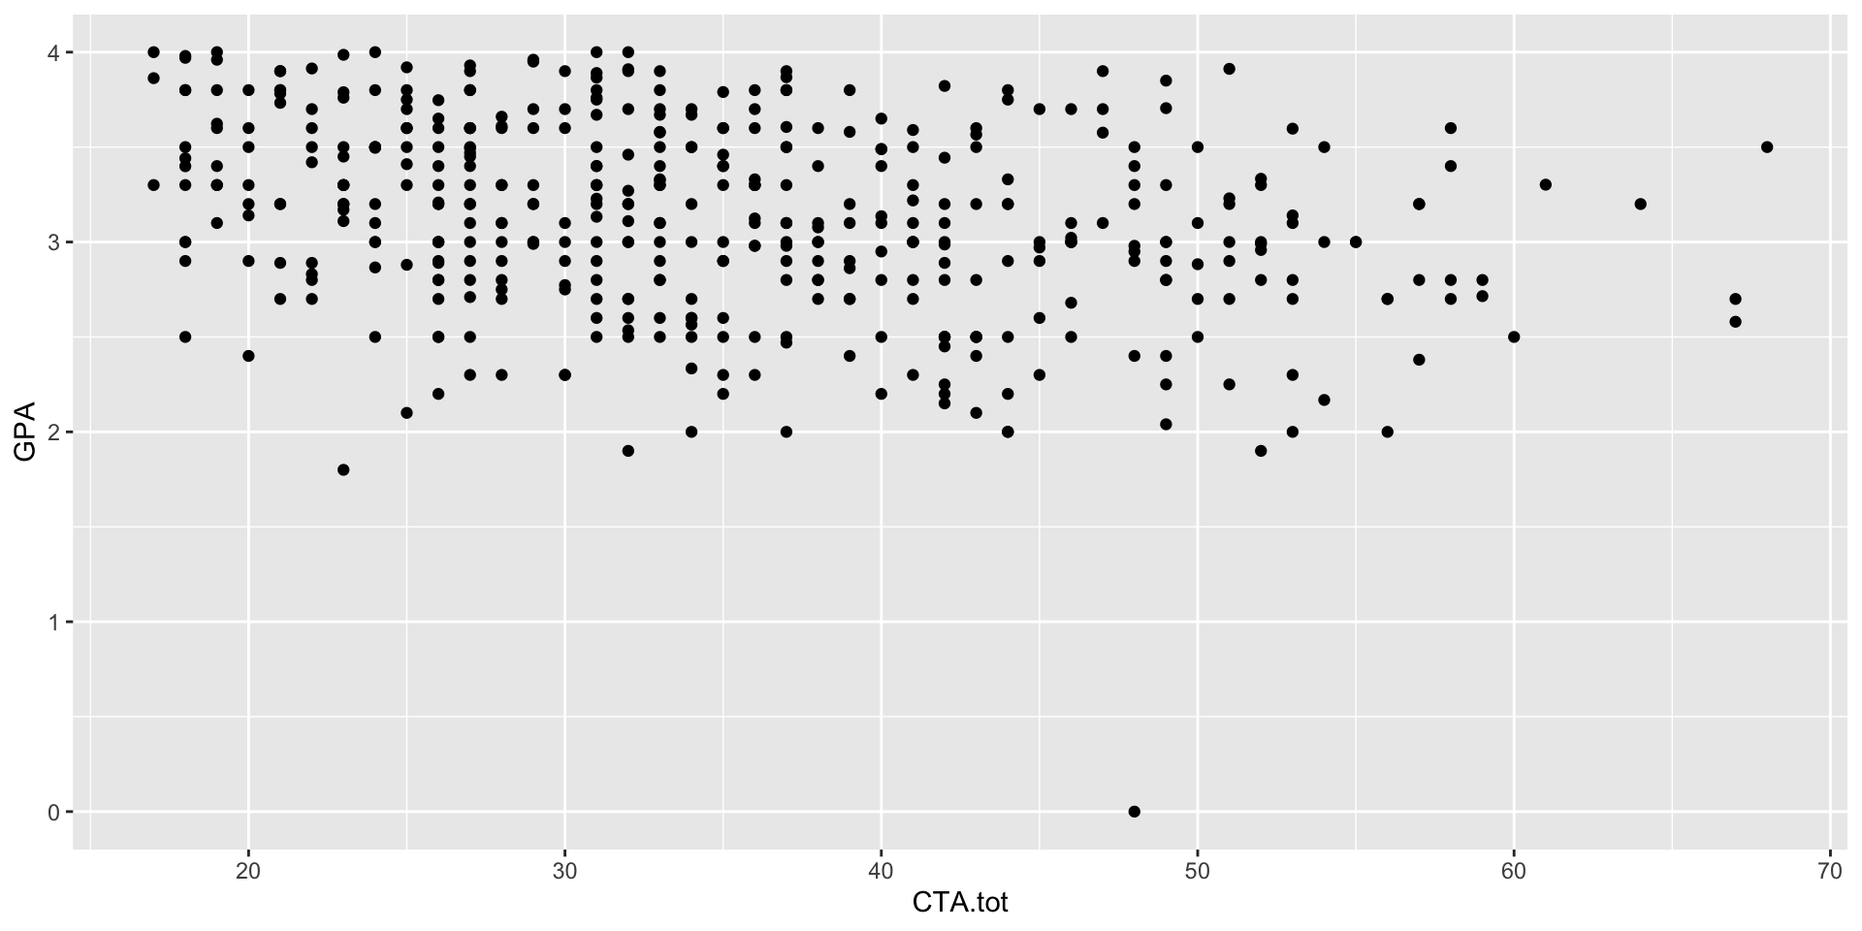
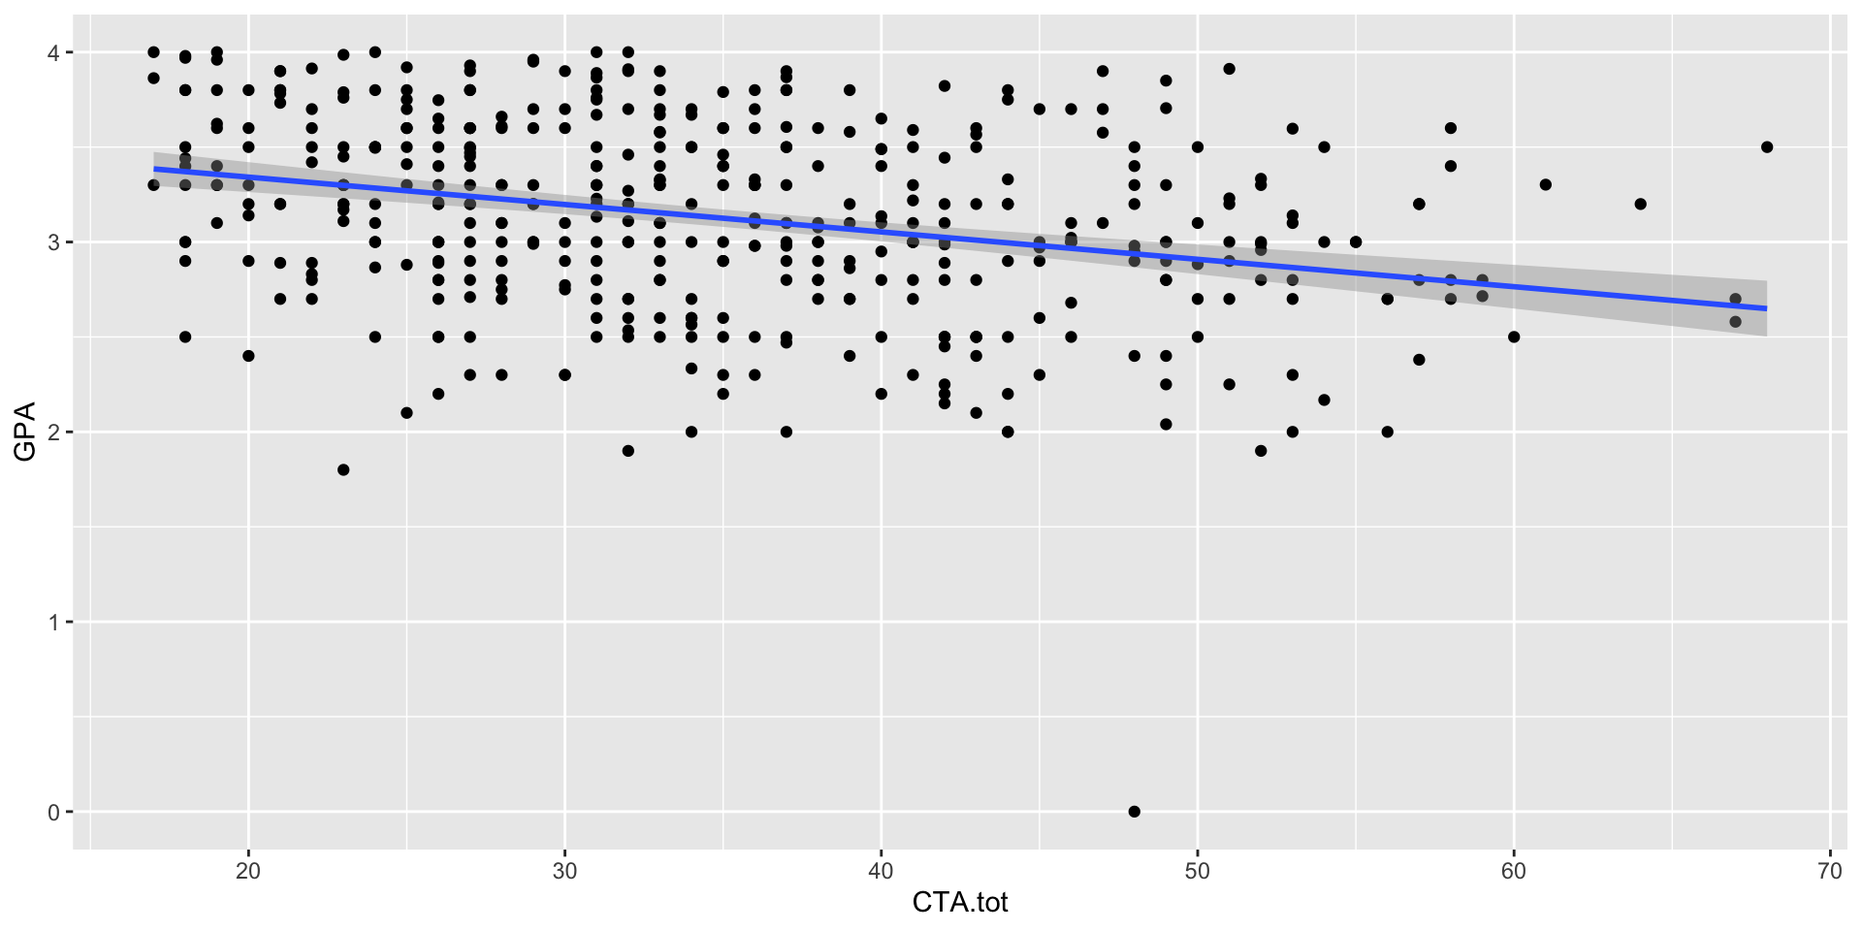
revising the content

Changed region(s): [[0.0625, 0.1562, 0.9688, 0.375]]

diff --git a/stats_modeling_week1.html b/stats_modeling_week1.html
@@ -412,9 +412,14 @@ S.Kelly
 <p>It’s free! You don’t need a subscription.</p>
 <p><img data-src="images/SAS.png" width="500" alt="SAS"> &nbsp;<img data-src="images/Stata.png" width="500" alt="Stata"></p>
 </section>
-<section id="what-is-linear-regression" class="slide level2">
-<h2>What is linear regression?</h2>
-<h3 id="insert-image-of-scatterplot-with-reg-line">insert image of scatterplot with reg line</h3>
+<section id="linear-regression-foundations" class="slide level2">
+<h2>Linear Regression Foundations</h2>
+<ol type="1">
+<li>Continuous outcome (Y) variable with a relatively normal distribution</li>
+<li>We are modeling a linear relationship between X and Y</li>
+<li>The residuals should be independent (no clustering!)</li>
+<li></li>
+</ol>
 </section>
 <section id="linear-regression-in-r" class="slide level2">
 <h2>Linear Regression in R</h2>
@@ -468,10 +473,11 @@ S.Kelly
 </section>
 <section id="linear-regression-1" class="slide level2">
 <h2>Linear Regression</h2>
-<p>Let’s look at the relationshp between cognitive academic anxiety and GPA.</p>
+<p>Let’s look at the relationship between cognitive academic anxiety and GPA.</p>
 <p>What’s wrong with this scatterplot?</p>
 <div class="cell">
-<div class="sourceCode cell-code" id="cb8"><pre class="sourceCode numberSource r number-lines code-with-copy"><code class="sourceCode r"><span id="cb8-1"><a href=""></a><span class="fu">ggplot</span>(students, <span class="fu">aes</span>(<span class="at">x =</span> CTA.tot, <span class="at">y =</span> GPA)) <span class="sc">+</span> <span class="fu">geom_point</span>()</span></code><button title="Copy to Clipboard" class="code-copy-button"><i class="bi"></i></button></pre></div>
+<div class="sourceCode cell-code" id="cb8"><pre class="sourceCode numberSource r number-lines code-with-copy"><code class="sourceCode r"><span id="cb8-1"><a href=""></a><span class="fu">ggplot</span>(students, <span class="fu">aes</span>(<span class="at">x =</span> CTA.tot, <span class="at">y =</span> GPA)) <span class="sc">+</span> <span class="fu">geom_point</span>() <span class="sc">+</span> </span>
+<span id="cb8-2"><a href=""></a>  <span class="fu">geom_smooth</span>(<span class="at">method =</span> <span class="st">"lm"</span>)</span></code><button title="Copy to Clipboard" class="code-copy-button"><i class="bi"></i></button></pre></div>
 
 </div>
 <img data-src="stats_modeling_week1_files/figure-revealjs/unnamed-chunk-4-1.png" width="960" class="r-stretch"></section>
@@ -479,7 +485,8 @@ S.Kelly
 <h2>Linear Regression</h2>
 <p>A quick change to the range of the y-axis and you can see the relationship between variables.</p>
 <div class="cell">
-<div class="sourceCode cell-code" id="cb9"><pre class="sourceCode numberSource r number-lines code-with-copy"><code class="sourceCode r"><span id="cb9-1"><a href=""></a><span class="fu">ggplot</span>(students, <span class="fu">aes</span>(<span class="at">x =</span> CTA.tot, <span class="at">y =</span> GPA)) <span class="sc">+</span> <span class="fu">geom_point</span>() <span class="sc">+</span> <span class="fu">ylim</span>(<span class="dv">0</span>, <span class="dv">4</span>)</span></code><button title="Copy to Clipboard" class="code-copy-button"><i class="bi"></i></button></pre></div>
+<div class="sourceCode cell-code" id="cb9"><pre class="sourceCode numberSource r number-lines code-with-copy"><code class="sourceCode r"><span id="cb9-1"><a href=""></a><span class="fu">ggplot</span>(students, <span class="fu">aes</span>(<span class="at">x =</span> CTA.tot, <span class="at">y =</span> GPA)) <span class="sc">+</span> <span class="fu">geom_point</span>() <span class="sc">+</span> </span>
+<span id="cb9-2"><a href=""></a>  <span class="fu">geom_smooth</span>(<span class="at">method =</span> <span class="st">"lm"</span>) <span class="sc">+</span> <span class="fu">ylim</span>(<span class="dv">0</span>, <span class="dv">4</span>)</span></code><button title="Copy to Clipboard" class="code-copy-button"><i class="bi"></i></button></pre></div>
 
 </div>
 <img data-src="stats_modeling_week1_files/figure-revealjs/unnamed-chunk-5-1.png" width="960" class="r-stretch"></section>
@@ -487,7 +494,8 @@ S.Kelly
 <h2>Linear Regression</h2>
 <p>Let’s look at the relationshp between physical anxiety and GPA.</p>
 <div class="cell">
-<div class="sourceCode cell-code" id="cb10"><pre class="sourceCode numberSource r number-lines code-with-copy"><code class="sourceCode r"><span id="cb10-1"><a href=""></a><span class="fu">ggplot</span>(students, <span class="fu">aes</span>(<span class="at">x =</span> BStotal, <span class="at">y =</span> GPA)) <span class="sc">+</span> <span class="fu">geom_point</span>() <span class="sc">+</span> <span class="fu">ylim</span>(<span class="dv">0</span>,<span class="dv">4</span>)</span></code><button title="Copy to Clipboard" class="code-copy-button"><i class="bi"></i></button></pre></div>
+<div class="sourceCode cell-code" id="cb10"><pre class="sourceCode numberSource r number-lines code-with-copy"><code class="sourceCode r"><span id="cb10-1"><a href=""></a><span class="fu">ggplot</span>(students, <span class="fu">aes</span>(<span class="at">x =</span> BStotal, <span class="at">y =</span> GPA)) <span class="sc">+</span> <span class="fu">geom_point</span>() <span class="sc">+</span> </span>
+<span id="cb10-2"><a href=""></a>  <span class="fu">geom_smooth</span>(<span class="at">method =</span> <span class="st">"lm"</span>) <span class="sc">+</span> <span class="fu">ylim</span>(<span class="dv">0</span>,<span class="dv">4</span>)</span></code><button title="Copy to Clipboard" class="code-copy-button"><i class="bi"></i></button></pre></div>
 
 </div>
 <img data-src="stats_modeling_week1_files/figure-revealjs/unnamed-chunk-6-1.png" width="960" class="r-stretch"></section>
@@ -586,8 +594,17 @@ Signif. codes:  0 '***' 0.001 '**' 0.01 '*' 0.05 '.' 0.1 ' ' 1</code></pre>
 </section>
 <section id="obtaining-confidence-intervals" class="slide level2">
 <h2>Obtaining Confidence Intervals</h2>
+<p>Reviewing the coefficients</p>
 <div class="cell">
-<div class="sourceCode cell-code" id="cb21"><pre class="sourceCode numberSource r number-lines code-with-copy"><code class="sourceCode r"><span id="cb21-1"><a href=""></a><span class="fu">confint</span>(model_gpa_anxiety)</span></code><button title="Copy to Clipboard" class="code-copy-button"><i class="bi"></i></button></pre></div>
+<div class="sourceCode cell-code" id="cb21"><pre class="sourceCode numberSource r number-lines code-with-copy"><code class="sourceCode r"><span id="cb21-1"><a href=""></a>model_gpa_anxiety<span class="sc">$</span>coefficients</span></code><button title="Copy to Clipboard" class="code-copy-button"><i class="bi"></i></button></pre></div>
+<div class="cell-output cell-output-stdout">
+<pre><code>(Intercept)     CTA.tot     BStotal 
+ 3.61892352 -0.02006778  0.01346885 </code></pre>
+</div>
+</div>
+<p>Confidence Intervals Function</p>
+<div class="cell">
+<div class="sourceCode cell-code" id="cb23"><pre class="sourceCode numberSource r number-lines code-with-copy"><code class="sourceCode r"><span id="cb23-1"><a href=""></a><span class="fu">confint</span>(model_gpa_anxiety)</span></code><button title="Copy to Clipboard" class="code-copy-button"><i class="bi"></i></button></pre></div>
 <div class="cell-output cell-output-stdout">
 <pre><code>                   2.5 %      97.5 %
 (Intercept)  3.463045744  3.77480130
@@ -596,58 +613,11 @@ BStotal      0.003489506  0.02344819</code></pre>
 </div>
 </div>
 </section>
-<section id="checking-for-model-outliers" class="slide level2">
-<h2>Checking for Model Outliers</h2>
-<div class="cell">
-<div class="sourceCode cell-code" id="cb23"><pre class="sourceCode numberSource r number-lines code-with-copy"><code class="sourceCode r"><span id="cb23-1"><a href=""></a>car<span class="sc">::</span><span class="fu">influenceIndexPlot</span>(model_gpa_anxiety)</span></code><button title="Copy to Clipboard" class="code-copy-button"><i class="bi"></i></button></pre></div>
-
-</div>
-<img data-src="stats_modeling_week1_files/figure-revealjs/unnamed-chunk-14-1.png" width="960" class="r-stretch"></section>
-<section id="checking-for-model-outliers-1" class="slide level2">
-<h2>Checking for Model Outliers</h2>
-<div class="cell">
-<div class="sourceCode cell-code" id="cb24"><pre class="sourceCode numberSource r number-lines code-with-copy"><code class="sourceCode r"><span id="cb24-1"><a href=""></a>car<span class="sc">::</span><span class="fu">outlierTest</span>(model_gpa_anxiety)</span></code><button title="Copy to Clipboard" class="code-copy-button"><i class="bi"></i></button></pre></div>
-<div class="cell-output cell-output-stdout">
-<pre><code>     rstudent unadjusted p-value Bonferroni p
-226 -6.479315         2.5546e-10   1.0959e-07</code></pre>
-</div>
-</div>
-<h3 id="who-is-226">Who is 226?</h3>
-<div class="cell">
-<div class="sourceCode cell-code" id="cb26"><pre class="sourceCode numberSource r number-lines code-with-copy"><code class="sourceCode r"><span id="cb26-1"><a href=""></a>whoisit <span class="ot">&lt;-</span> students <span class="sc">|&gt;</span> </span>
-<span id="cb26-2"><a href=""></a>  <span class="fu">select</span>(Gender<span class="sc">:</span>GPA, BStotal, CTA.tot) <span class="sc">|&gt;</span> </span>
-<span id="cb26-3"><a href=""></a>  <span class="fu">slice</span>(<span class="dv">226</span>)</span>
-<span id="cb26-4"><a href=""></a></span>
-<span id="cb26-5"><a href=""></a>whoisit</span></code><button title="Copy to Clipboard" class="code-copy-button"><i class="bi"></i></button></pre></div>
-<div class="cell-output cell-output-stdout">
-<pre><code># A tibble: 1 × 7
-  Gender  Male Minority   Age   GPA BStotal CTA.tot
-   &lt;dbl&gt; &lt;dbl&gt;    &lt;dbl&gt; &lt;dbl&gt; &lt;dbl&gt;   &lt;dbl&gt;   &lt;dbl&gt;
-1      1     0        1    18     0      25      48</code></pre>
-</div>
-</div>
-</section>
-<section id="what-can-i-pull-from-the-model" class="slide level2">
-<h2>What can I pull from the model?</h2>
-<div class="cell">
-<div class="sourceCode cell-code" id="cb28"><pre class="sourceCode numberSource r number-lines code-with-copy"><code class="sourceCode r"><span id="cb28-1"><a href=""></a><span class="fu">attributes</span>(model_gpa_anxiety)</span></code><button title="Copy to Clipboard" class="code-copy-button"><i class="bi"></i></button></pre></div>
-<div class="cell-output cell-output-stdout">
-<pre><code>$names
- [1] "coefficients"  "residuals"     "effects"       "rank"         
- [5] "fitted.values" "assign"        "qr"            "df.residual"  
- [9] "na.action"     "xlevels"       "call"          "terms"        
-[13] "model"        
-
-$class
-[1] "lm"</code></pre>
-</div>
-</div>
-</section>
 <section id="predicted-outcomes" class="slide level2">
 <h2>Predicted Outcomes</h2>
 <p>Can I grab the predicted individual GPAs from the model? Yes you can.</p>
 <div class="cell">
-<div class="sourceCode cell-code" id="cb30"><pre class="sourceCode numberSource r number-lines code-with-copy"><code class="sourceCode r"><span id="cb30-1"><a href=""></a>model_gpa_anxiety<span class="sc">$</span>fitted.values</span></code><button title="Copy to Clipboard" class="code-copy-button"><i class="bi"></i></button></pre></div>
+<div class="sourceCode cell-code" id="cb25"><pre class="sourceCode numberSource r number-lines code-with-copy"><code class="sourceCode r"><span id="cb25-1"><a href=""></a>model_gpa_anxiety<span class="sc">$</span>fitted.values</span></code><button title="Copy to Clipboard" class="code-copy-button"><i class="bi"></i></button></pre></div>
 <div class="cell-output cell-output-stdout">
 <pre><code>       1        3        4        5        8        9       10       11 
 2.964641 3.125996 3.039668 3.125454 2.852730 3.152391 3.412460 3.011917 
@@ -760,25 +730,63 @@ $class
 </div>
 </div>
 </section>
+<section id="can-i-plot-the-predicted-gpas" class="slide level2">
+<h2>Can I plot the predicted GPAs?</h2>
+<div class="cell">
+<div class="sourceCode cell-code" id="cb27"><pre class="sourceCode numberSource r number-lines code-with-copy"><code class="sourceCode r"><span id="cb27-1"><a href=""></a><span class="fu">plot</span>(model_gpa_anxiety<span class="sc">$</span>fitted.values)</span></code><button title="Copy to Clipboard" class="code-copy-button"><i class="bi"></i></button></pre></div>
+
+</div>
+<img data-src="stats_modeling_week1_files/figure-revealjs/unnamed-chunk-16-1.png" width="960" class="r-stretch"></section>
 <section id="lets-take-a-look-at-the-residuals" class="slide level2">
 <h2>Let’s take a look at the residuals</h2>
 <div class="cell">
-<div class="sourceCode cell-code" id="cb32"><pre class="sourceCode numberSource r number-lines code-with-copy"><code class="sourceCode r"><span id="cb32-1"><a href=""></a><span class="fu">plot</span>(<span class="fu">resid</span>(model_gpa_anxiety))</span></code><button title="Copy to Clipboard" class="code-copy-button"><i class="bi"></i></button></pre></div>
+<div class="sourceCode cell-code" id="cb28"><pre class="sourceCode numberSource r number-lines code-with-copy"><code class="sourceCode r"><span id="cb28-1"><a href=""></a><span class="fu">plot</span>(<span class="fu">resid</span>(model_gpa_anxiety))</span></code><button title="Copy to Clipboard" class="code-copy-button"><i class="bi"></i></button></pre></div>
 
 </div>
-<img data-src="stats_modeling_week1_files/figure-revealjs/unnamed-chunk-19-1.png" width="960" class="r-stretch"></section>
+<img data-src="stats_modeling_week1_files/figure-revealjs/unnamed-chunk-17-1.png" width="960" class="r-stretch"></section>
+<section id="checking-for-model-outliers" class="slide level2">
+<h2>Checking for Model Outliers</h2>
+<div class="cell">
+<div class="sourceCode cell-code" id="cb29"><pre class="sourceCode numberSource r number-lines code-with-copy"><code class="sourceCode r"><span id="cb29-1"><a href=""></a>car<span class="sc">::</span><span class="fu">influenceIndexPlot</span>(model_gpa_anxiety)</span></code><button title="Copy to Clipboard" class="code-copy-button"><i class="bi"></i></button></pre></div>
+
+</div>
+<img data-src="stats_modeling_week1_files/figure-revealjs/unnamed-chunk-18-1.png" width="960" class="r-stretch"></section>
+<section id="checking-for-model-outliers-1" class="slide level2">
+<h2>Checking for Model Outliers</h2>
+<div class="cell">
+<div class="sourceCode cell-code" id="cb30"><pre class="sourceCode numberSource r number-lines code-with-copy"><code class="sourceCode r"><span id="cb30-1"><a href=""></a>car<span class="sc">::</span><span class="fu">outlierTest</span>(model_gpa_anxiety)</span></code><button title="Copy to Clipboard" class="code-copy-button"><i class="bi"></i></button></pre></div>
+<div class="cell-output cell-output-stdout">
+<pre><code>     rstudent unadjusted p-value Bonferroni p
+226 -6.479315         2.5546e-10   1.0959e-07</code></pre>
+</div>
+</div>
+<h3 id="who-is-226">Who is 226?</h3>
+<div class="cell">
+<div class="sourceCode cell-code" id="cb32"><pre class="sourceCode numberSource r number-lines code-with-copy"><code class="sourceCode r"><span id="cb32-1"><a href=""></a>whoisit <span class="ot">&lt;-</span> students <span class="sc">|&gt;</span> </span>
+<span id="cb32-2"><a href=""></a>  <span class="fu">select</span>(Gender<span class="sc">:</span>GPA, BStotal, CTA.tot) <span class="sc">|&gt;</span> </span>
+<span id="cb32-3"><a href=""></a>  <span class="fu">slice</span>(<span class="dv">226</span>)</span>
+<span id="cb32-4"><a href=""></a></span>
+<span id="cb32-5"><a href=""></a>whoisit</span></code><button title="Copy to Clipboard" class="code-copy-button"><i class="bi"></i></button></pre></div>
+<div class="cell-output cell-output-stdout">
+<pre><code># A tibble: 1 × 7
+  Gender  Male Minority   Age   GPA BStotal CTA.tot
+   &lt;dbl&gt; &lt;dbl&gt;    &lt;dbl&gt; &lt;dbl&gt; &lt;dbl&gt;   &lt;dbl&gt;   &lt;dbl&gt;
+1      1     0        1    18     0      25      48</code></pre>
+</div>
+</div>
+</section>
 <section id="what-if-we-had-removed-the-outlier" class="slide level2">
 <h2>What if we had removed the outlier?</h2>
 <p>Let’s only retain people who have a GPA between 1 and 4. By default, the NAs also drop.</p>
 <div class="cell">
-<div class="sourceCode cell-code" id="cb33"><pre class="sourceCode numberSource r number-lines code-with-copy"><code class="sourceCode r"><span id="cb33-1"><a href=""></a>students_no_outlier <span class="ot">&lt;-</span> students <span class="sc">|&gt;</span>  </span>
-<span id="cb33-2"><a href=""></a>  <span class="fu">filter</span>(GPA <span class="sc">&gt;</span> <span class="dv">1</span> <span class="sc">&amp;</span> GPA <span class="sc">&lt;</span> <span class="dv">4</span>) </span>
-<span id="cb33-3"><a href=""></a></span>
-<span id="cb33-4"><a href=""></a><span class="fu">dim</span>(students)</span></code><button title="Copy to Clipboard" class="code-copy-button"><i class="bi"></i></button></pre></div>
+<div class="sourceCode cell-code" id="cb34"><pre class="sourceCode numberSource r number-lines code-with-copy"><code class="sourceCode r"><span id="cb34-1"><a href=""></a>students_no_outlier <span class="ot">&lt;-</span> students <span class="sc">|&gt;</span>  </span>
+<span id="cb34-2"><a href=""></a>  <span class="fu">filter</span>(GPA <span class="sc">&gt;</span> <span class="dv">1</span> <span class="sc">&amp;</span> GPA <span class="sc">&lt;</span> <span class="dv">4</span>) </span>
+<span id="cb34-3"><a href=""></a></span>
+<span id="cb34-4"><a href=""></a><span class="fu">dim</span>(students)</span></code><button title="Copy to Clipboard" class="code-copy-button"><i class="bi"></i></button></pre></div>
 <div class="cell-output cell-output-stdout">
 <pre><code>[1] 486  30</code></pre>
 </div>
-<div class="sourceCode cell-code" id="cb35"><pre class="sourceCode numberSource r number-lines code-with-copy"><code class="sourceCode r"><span id="cb35-1"><a href=""></a><span class="fu">dim</span>(students_no_outlier)</span></code><button title="Copy to Clipboard" class="code-copy-button"><i class="bi"></i></button></pre></div>
+<div class="sourceCode cell-code" id="cb36"><pre class="sourceCode numberSource r number-lines code-with-copy"><code class="sourceCode r"><span id="cb36-1"><a href=""></a><span class="fu">dim</span>(students_no_outlier)</span></code><button title="Copy to Clipboard" class="code-copy-button"><i class="bi"></i></button></pre></div>
 <div class="cell-output cell-output-stdout">
 <pre><code>[1] 460  30</code></pre>
 </div>
@@ -787,10 +795,10 @@ $class
 <section id="model-again" class="slide level2">
 <h2>Model Again</h2>
 <div class="cell">
-<div class="sourceCode cell-code" id="cb37"><pre class="sourceCode numberSource r number-lines code-with-copy"><code class="sourceCode r"><span id="cb37-1"><a href=""></a>model_gpa_anxiety_no_outlier <span class="ot">&lt;-</span> <span class="fu">lm</span>(GPA <span class="sc">~</span> CTA.tot <span class="sc">+</span> BStotal, </span>
-<span id="cb37-2"><a href=""></a>                                   <span class="at">data =</span> students_no_outlier)</span>
-<span id="cb37-3"><a href=""></a></span>
-<span id="cb37-4"><a href=""></a><span class="fu">summary</span>(model_gpa_anxiety_no_outlier)</span></code><button title="Copy to Clipboard" class="code-copy-button"><i class="bi"></i></button></pre></div>
+<div class="sourceCode cell-code" id="cb38"><pre class="sourceCode numberSource r number-lines code-with-copy"><code class="sourceCode r"><span id="cb38-1"><a href=""></a>model_gpa_anxiety_no_outlier <span class="ot">&lt;-</span> <span class="fu">lm</span>(GPA <span class="sc">~</span> CTA.tot <span class="sc">+</span> BStotal, </span>
+<span id="cb38-2"><a href=""></a>                                   <span class="at">data =</span> students_no_outlier)</span>
+<span id="cb38-3"><a href=""></a></span>
+<span id="cb38-4"><a href=""></a><span class="fu">summary</span>(model_gpa_anxiety_no_outlier)</span></code><button title="Copy to Clipboard" class="code-copy-button"><i class="bi"></i></button></pre></div>
 <div class="cell-output cell-output-stdout">
 <pre><code>
 Call:
@@ -818,7 +826,7 @@ F-statistic: 23.65 on 2 and 420 DF,  p-value: 1.856e-10</code></pre>
 <section id="outliers-now" class="slide level2">
 <h2>Outliers Now?</h2>
 <div class="cell">
-<div class="sourceCode cell-code" id="cb39"><pre class="sourceCode numberSource r number-lines code-with-copy"><code class="sourceCode r"><span id="cb39-1"><a href=""></a>car<span class="sc">::</span><span class="fu">outlierTest</span>(model_gpa_anxiety_no_outlier)</span></code><button title="Copy to Clipboard" class="code-copy-button"><i class="bi"></i></button></pre></div>
+<div class="sourceCode cell-code" id="cb40"><pre class="sourceCode numberSource r number-lines code-with-copy"><code class="sourceCode r"><span id="cb40-1"><a href=""></a>car<span class="sc">::</span><span class="fu">outlierTest</span>(model_gpa_anxiety_no_outlier)</span></code><button title="Copy to Clipboard" class="code-copy-button"><i class="bi"></i></button></pre></div>
 <div class="cell-output cell-output-stdout">
 <pre><code>No Studentized residuals with Bonferroni p &lt; 0.05
 Largest |rstudent|:
@@ -830,16 +838,21 @@ Largest |rstudent|:
 <section id="plot" class="slide level2">
 <h2>Plot</h2>
 <div class="cell">
-<div class="sourceCode cell-code" id="cb41"><pre class="sourceCode numberSource r number-lines code-with-copy"><code class="sourceCode r"><span id="cb41-1"><a href=""></a>car<span class="sc">::</span><span class="fu">influenceIndexPlot</span>(model_gpa_anxiety_no_outlier)</span></code><button title="Copy to Clipboard" class="code-copy-button"><i class="bi"></i></button></pre></div>
+<div class="sourceCode cell-code" id="cb42"><pre class="sourceCode numberSource r number-lines code-with-copy"><code class="sourceCode r"><span id="cb42-1"><a href=""></a>car<span class="sc">::</span><span class="fu">influenceIndexPlot</span>(model_gpa_anxiety_no_outlier)</span></code><button title="Copy to Clipboard" class="code-copy-button"><i class="bi"></i></button></pre></div>
 
 </div>
-<img data-src="stats_modeling_week1_files/figure-revealjs/unnamed-chunk-23-1.png" width="960" class="r-stretch"></section>
-<section id="what-about-categorical-predictors" class="slide level2">
-<h2>What about categorical predictors?</h2>
+<img data-src="stats_modeling_week1_files/figure-revealjs/unnamed-chunk-24-1.png" width="960" class="r-stretch"></section>
+<section id="next-week-more-regression-modeling" class="slide level2">
+<h2>Next Week: More Regression Modeling</h2>
+<h3 id="what-if-you-want-to-model-an-interaction-you-can">- What if you want to model an interaction? <em>You can</em></h3>
+<h3 id="what-if-you-have-categorical-predictors-factors">- What if you have categorical predictors? <em>Factors</em></h3>
+<h3 id="what-if-you-need-to-model-a-binary-outcome-logistic-regression">- What if you need to model a binary outcome? <em>Logistic Regression</em></h3>
 </section>
-<section id="what-if-i-want-to-scale-z-score-my-predictors" class="slide level2">
-<h2>What if I want to scale / z-score my predictors?</h2>
-<div class="quarto-auto-generated-content">
+<section id="additional-questions" class="slide level2">
+<h2>Additional Questions?</h2>
+<p>Make an Appointment with the <a href="https://libraries.olemiss.edu/services/methods-and-analysis-lab/">Methods and Analysis Lab (MAL)</a>.</p>
+
+<img data-src="images/MAL_services.png" class="quarto-figure quarto-figure-center r-stretch"><div class="quarto-auto-generated-content">
 <div class="footer footer-default">
 <p>S.Kelly | Stats Modeling in R | Fall 2025</p>
 </div>
